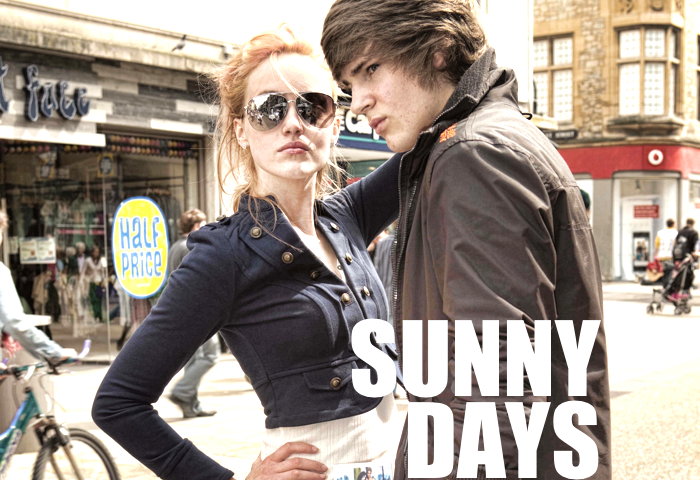
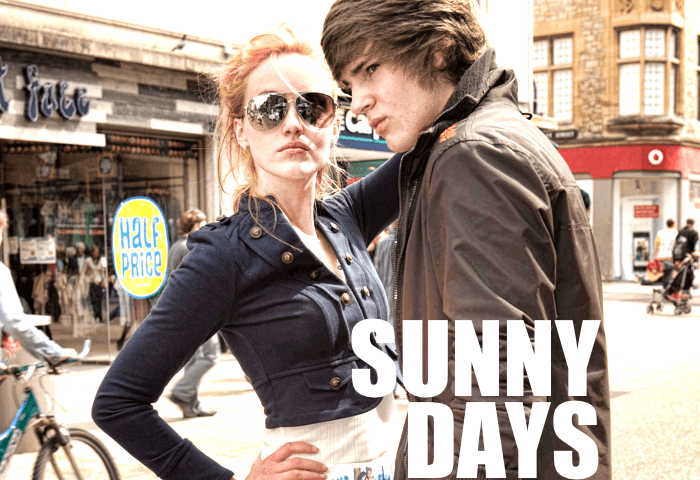
img e css
comprimindo imagem e  arquivo stilo.css

diff --git a/css/style.min.css b/css/style.min.css
@@ -1,0 +1,1 @@
+.busca,.menu-departamentos,.painel h2{font-weight:700;text-transform:uppercase}.menu-departamentos a,.painel a{text-decoration:none;color:#333}.container{margin:auto;width:940px}figcaption{font-size:13px}.painel li:nth-child(n+7){display:none}.painel-aberto li:nth-child(n+7){display:inline-block}.painel button{position:relative;float:right;margin-bottom:10px;margin-right:10px;padding:10px;background-color:#333;border:0;border-radius:4px;box-shadow:1px 1px 3px rgba(30,30,30,.5);color:#fff;font-size:1em;text-decoration:none;text-shadow:1px 0 1px #000;transition:.3s}.painel button:hover{background-color:#393939;box-shadow:1px 0 20px rgba(200,200,120,.9)}.painel button::after{content:'';display:block;height:0;width:0;border-top:10px solid #333;border-left:10px solid transparent;border-right:10px solid transparent;position:absolute;top:100%;left:100%;transition:.3s}.logotipo,header{position:relative}painel button:hover::after{border-top-color:#393939}.logotipo{top:0;left:0}.menu-opcoes,.sacola{position:absolute;right:0}.sacola{background-image:url(../imagens/sacola.png);background-repeat:no-repeat;background-position:top right;font-size:14px;padding-right:35px;padding-top:8px;text-align:right;top:0;width:140px}.menu-opcoes{bottom:0}.menu-opcoes ul{font-size:15px}.menu-opcoes ul li{display:inline;margin-left:20px}.menu-opcoes a{color:#036;text-align:center}.busca,.menu-departamentos{background-color:#DCDCDC;float:left;margin-right:10px;width:230px}.busca form,.busca h2,.menu-departamentos h2{margin:10px}.busca button{background-image:url(../imagens/busca.png);background-repeat:no-repeat;border:none;width:20px;height:20px;text-indent:-9999px}.busca{border-top-left-radius:4px;border-top-right-radius:4px}.menu-departamentos li{background-color:#fff;margin-bottom:1px;padding:5px 10px}.menu-departamentos{clear:left;margin-top:10px;padding-bottom:10px}.busca input[type=search]{width:170px}.destaque{margin-top:10px;position:relative}.pause,.play{display:block;position:absolute;right:15px;top:15px}.pause{border-left:10px solid #900;border-right:15px solid #900;height:30px;width:5px}.play{border-left:25px solid #900;border-bottom:15px solid transparent;border-top:15px solid transparent}.painel{margin:10px 0;padding:10px;width:445px;border-radius:4px;box-shadow:inset 1px 1px 4px #999}.painel li{display:inline-block;vertical-align:top;width:140px;margin:2px;padding-bottom:10px;transition:.7s ease-out}.painel li:nth-child(2n):hover{background-color:rgba(255,255,255,.8);box-shadow:0 0 5px #333;transition:.7s;transform:scale(1.2) rotate(-5deg)}.painel h2{font-size:24px;text-shadow:3px 3px 2px rgba(255,255,255,0,8);margin-bottom:10px;font-family:Pacifico,cursive}.painel h2:before{content:'\2756';padding-right:5px;opacity:.4}.painel a{font-size:14px;text-align:center}.novidades{background:linear-gradient(#F5DCDC,#BEBEF4);float:left}.mais-vendidos{background:linear-gradient(#DCDCF5,#F4BEBE);float:right}body{color:#333;font-family:Montserrat,sans-serif}footer{clear:both;background-image:url(../imagens/fundo-rodape.png);padding:20px 0}footer .container{position:relative}.social{position:absolute;top:12px;right:0}.social li{float:left;margin-left:25px}.social a{height:32px;width:32px;display:block;text-indent:-9999px}.social a[href*="facebook.com"]{background-image:url(../imagens/facebook.png)}.social a[href*="twitter.com"]{background-image:url(../imagens/twitter.png)}.social a[href*="plus.google.com"]{background-image:url(../imagens/googleplus.png)}.menu-opcoes a:hover{color:#007DC6}.menu-opcoes a:active{color:#867DC6}.menu-departamentos li ul{display:none}.menu-departamentos li:hover ul{display:block}.menu-departamentos ul ul li{background-color:#DCDCDC}.menu-departamentos li li a::before{content:'\272A';padding-right:3px}@media (max-width:939px){.menu-opcoes,header h1{text-align:center}.container{width:96%}header h1 img{max-width:50%}.sacola{display:none}.menu-opcoes{position:static}.menu-opcoes ul li{display:inline-block;margin:5px}.banner-destaque img,.busca,.menu-departamentos{margin-right:0;width:100%}.painel{width:auto}.painel li{width:30%}.painel img{width:100%}@media (min-width:480px){header h1{margin:5px 0}.menu-departamentos{padding-bottom:10px;margin-bottom:10px}.menu-departamentos nav>ul{column-count:2}}@media (min-width:720px){header h1{text-align:left}.menu-opcoes{position:absolute}.sacola{display:block}.painel li{width:15%}.busca,.menu-departamentos{margin-right:1%;width:30%}.menu-departamentos nav>ul{column-count:1}.banner-destaque img{width:69%}}@media (min-width:1024px){header h1{text-align:left}.menu-opcoes{position:absolute}.sacola{display:block}.painel li{width:15%}.busca,.menu-departamentos{margin-right:1%;width:30%}.menu-departamentos nav>ul{column-count:1}.banner-destaque img{width:69%}}}

diff --git a/index.html b/index.html
@@ -11,7 +11,7 @@
             @import url('https://fonts.googleapis.com/css2?family=Almarai:wght@300&family=Cormorant+Garamond:ital,wght@1,300&family=Pacifico&display=swap');
         </style>
         <link rel="stylesheet" href="css/reset.css">
-        <link rel="stylesheet" href="css/estilos.css">
+        <link rel="stylesheet" href="css/style.min.css">
     </head>
     <body>
         <header class="container">
@@ -57,12 +57,54 @@
                             </ul>
                         </li>
                                                     
-                        <li><a href="#">Calças</a></li>
-                        <li><a href="#">Saias</a></li>
-                        <li><a href="#">Vestidos</a></li>
-                        <li><a href="#">Sapatos</a></li>
-                        <li><a href="#">Bolas e Carteiras</a></li>
-                        <li><a href="#">Acessórios</a></li>
+                        <li>
+                            <a href="#">Calças</a>
+                            <ul>
+                                <li><a href="#">Social</a></li>
+                                <li><a href="#">Sarja</a></li>
+                                <li><a href="#">Jeans</a></li>
+                            </ul>
+                        </li>
+                        <li>
+                            <a href="#">Saias</a>
+                            <ul>
+                                <li><a href="#">Longa</a></li>
+                                <li><a href="#">Mini-saia</a></li>
+                                <li><a href="#">Social</a></li>
+                            </ul>
+                        </li>
+                        <li>
+                            <a href="#">Vestidos</a>
+                            <ul>
+                                <li><a href="#">Longos</a></li>
+                                <li><a href="#">Curtos</a></li>
+                                <li><a href="#">Festas</a></li>
+                            </ul>
+                        </li>
+                        <li>
+                            <a href="#">Sapatos</a>
+                            <ul>
+                                <li><a href="#">Social</a></li>
+                                <li><a href="#">Sapatenis</a></li>
+                                <li><a href="#">tenis</a></li>
+                            </ul>
+                        </li>
+                        <li>
+                            <a href="#">Bolas e Carteiras</a>
+                            <ul>
+                                <li><a href="#">Feminino</a></li>
+                                <li><a href="#">Masculino</a></li>
+                                <li><a href="#">Bags</a></li>
+                            </ul>
+                        </li>
+                        <li>
+                            <a href="#">Acessórios</a>
+                            <ul>
+                                <li><a href="#">Cintos</a></li>
+                                <li><a href="#">Relogios</a></li>
+                                <li><a href="#">Pulseiras</a></li>
+                            </ul>
+                        </li>
                     </ul>
                 </nav>
             </section>
